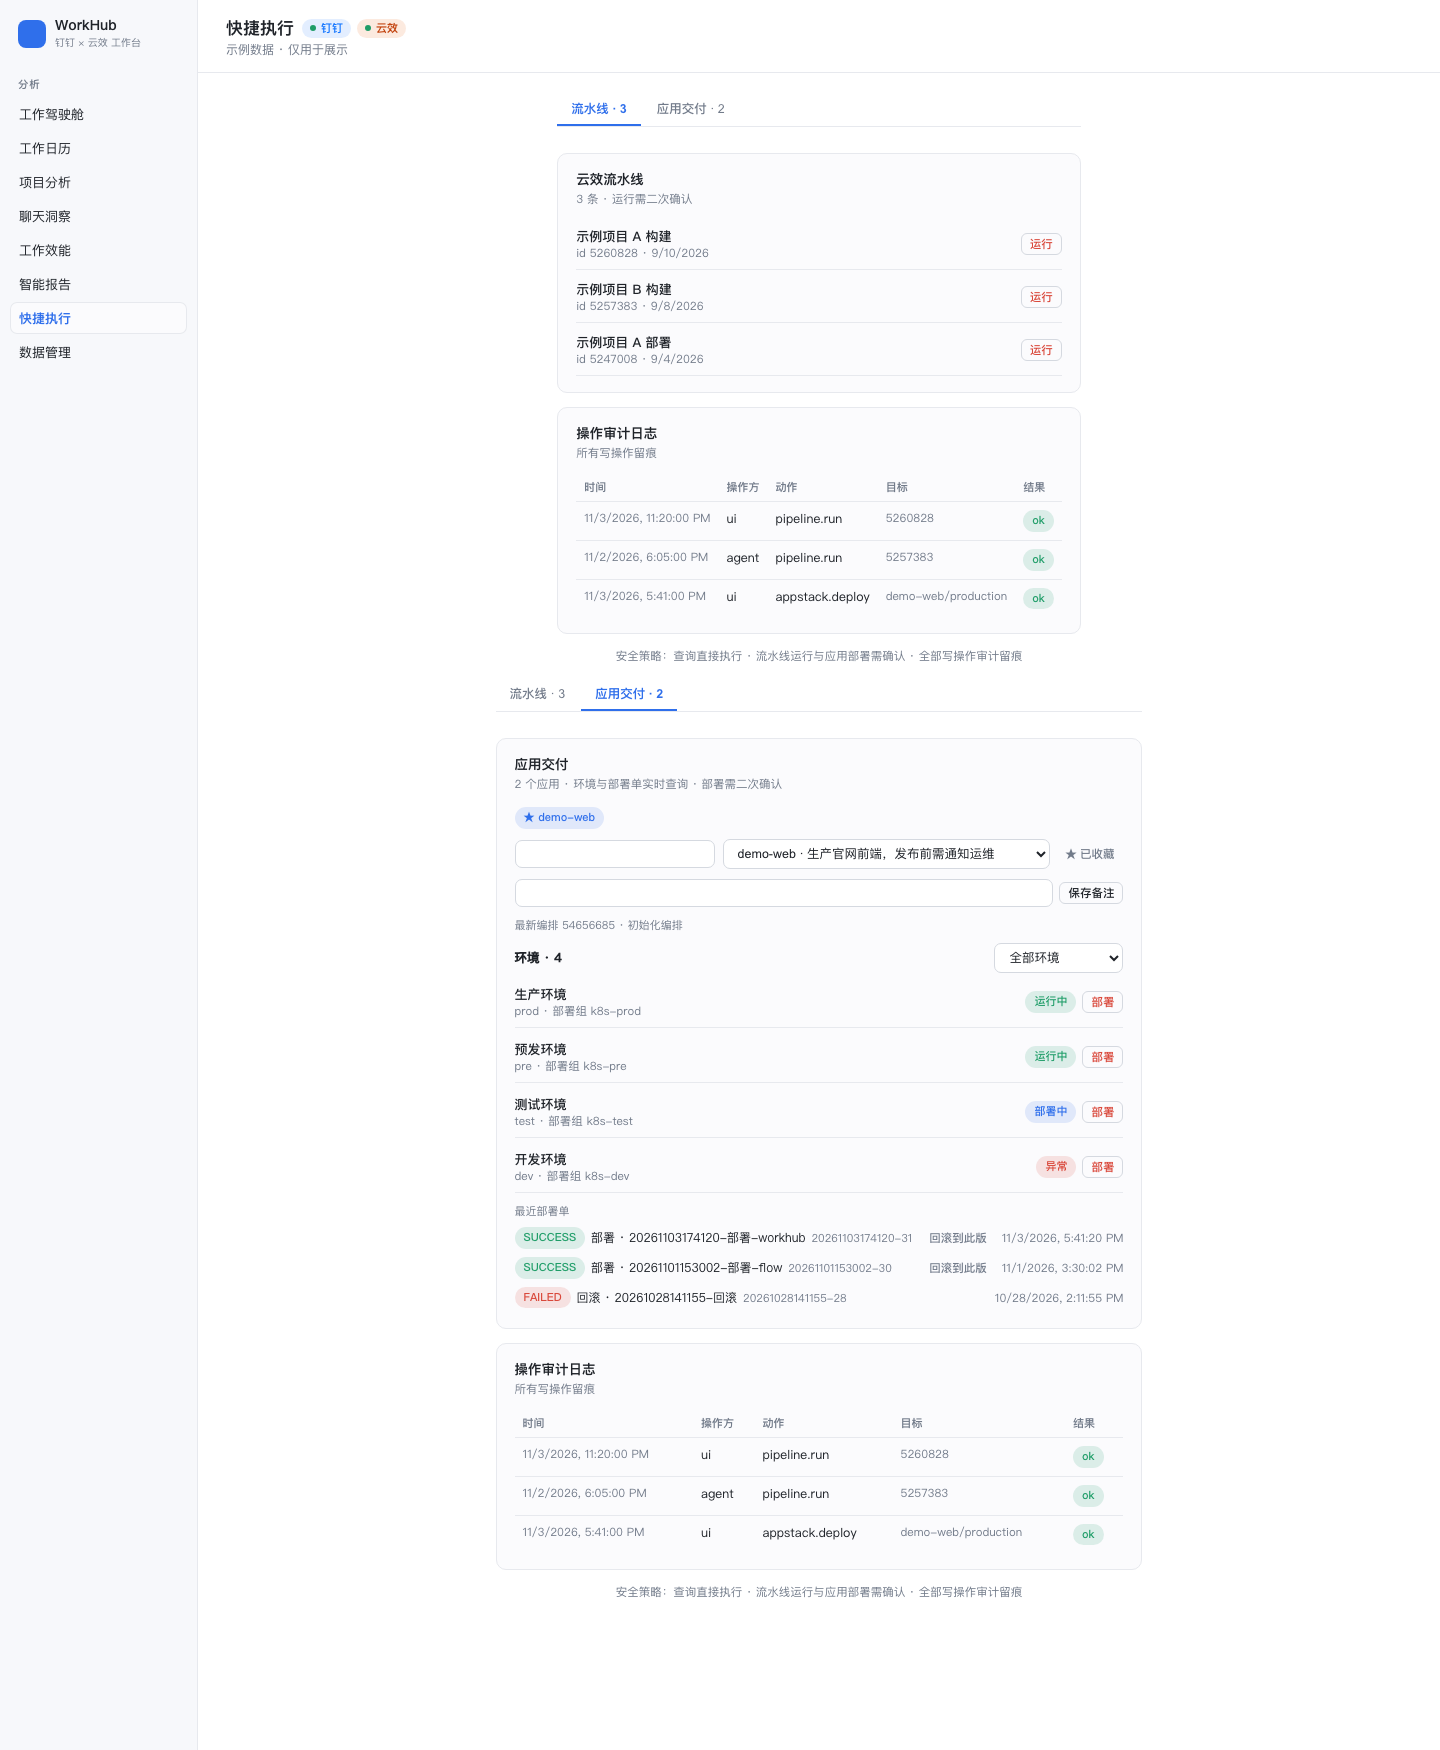
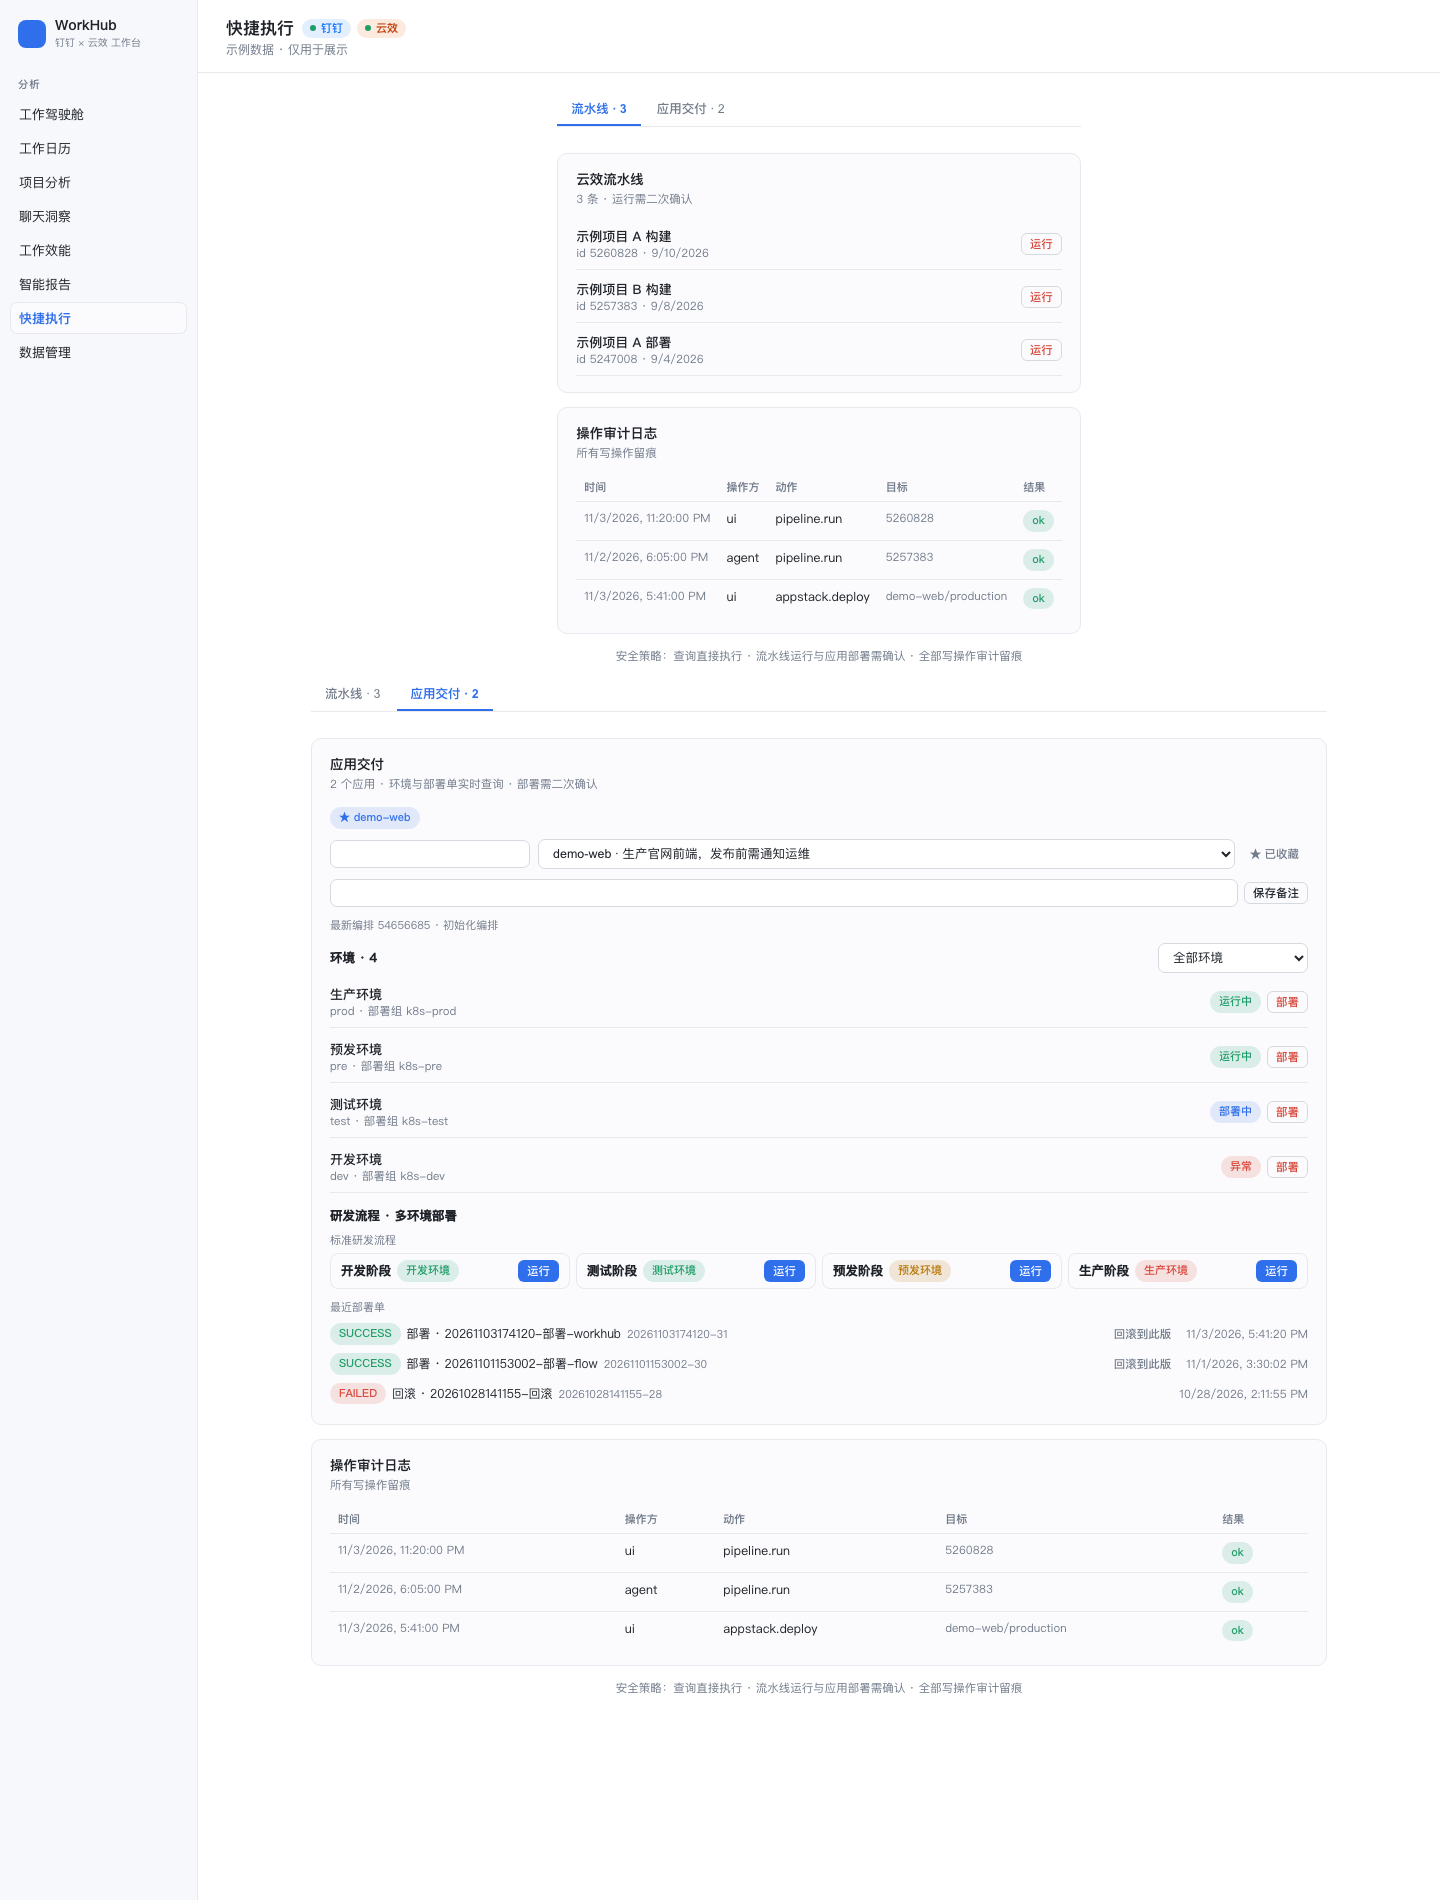
feat: 应用交付接入研发流程（多环境阶段展示 + 运行阶段：分支/变量/备注）

diff --git a/client.js b/client.js
@@ -2888,6 +2888,40 @@ react-is/cjs/react-is.production.js:
     /* 快捷执行页内存缓存：切页不丢状态，回页秒显再后台刷新 */
     const actionsMem = { data: null, appsData: null, selApp: '', detail: {} }
 
+    /* 研发流程阶段行：展开运行表单（分支 / 运行变量 / 备注） */
+    function FlowStageRow({ app, wf, st, busy, onRun }) {
+      const [open, setOpen] = useState(false)
+      const [branch, setBranch] = useState(st.branch ?? 'master')
+      const [vars, setVars] = useState(() => Object.entries(st.params ?? {}).map(([k, v]) => ({ k, v })))
+      const [comment, setComment] = useState('')
+      const running = busy === `flow:${st.sn}`
+      return h('div', { style: { border: '1px solid var(--dsw-alias-border-l1)', borderRadius: 8, padding: '6px 10px', flex: '1 1 240px', minWidth: 240 } },
+        h('div', { className: 'wh-toolbar', style: { justifyContent: 'space-between' } },
+          h('div', { style: { display: 'flex', gap: 6, alignItems: 'center', flexWrap: 'wrap' } },
+            h('span', { style: { fontWeight: 550, fontSize: 12.5 } }, st.name),
+            st.envType ? h(Chip, { tone: st.envType.includes('生产') ? 'bad' : st.envType.includes('预发') ? 'warn' : 'ok' }, st.envType) : null),
+          h(Btn, { size: 'sm', variant: open ? 'ghost' : 'primary', disabled: running, onClick: () => setOpen(!open) },
+            running ? '提交中…' : open ? '收起' : '运行')),
+        open
+          ? h('div', { style: { display: 'flex', flexDirection: 'column', gap: 5, marginTop: 6 } },
+              h(WhInput, { value: branch, onChange: (e) => setBranch(e.target.value), placeholder: st.sourceLabel ? `分支（代码源 ${st.sourceLabel}）` : '分支' }),
+              vars.map((row, i) =>
+                h('div', { key: row.k, className: 'wh-toolbar', style: { gap: 5 } },
+                  h('span', { className: 'wh-muted', style: { fontSize: 11, width: 80, flex: 'none', overflow: 'hidden', textOverflow: 'ellipsis' } }, row.k),
+                  h(WhInput, {
+                    style: { flex: 1 }, value: row.v,
+                    onChange: (e) => setVars((p0) => (p0 ?? []).map((x, j) => (j === i ? { ...x, v: e.target.value } : x))),
+                  }))),
+              h(WhInput, { value: comment, onChange: (e) => setComment(e.target.value), placeholder: '运行备注（可选）' }),
+              h('div', { className: 'wh-toolbar', style: { gap: 6 } },
+                h(Btn, {
+                  size: 'sm', variant: 'primary', disabled: running,
+                  onClick: () => onRun(wf, st, { branch, comment, params: Object.fromEntries(vars.map((r) => [r.k, r.v])) }),
+                }, '确认运行'),
+                h(Btn, { size: 'sm', onClick: () => setOpen(false) }, '取消')))
+          : null)
+    }
+
     function ActionsPage({ initialTab = 'flow' }) {
       const [data, setData] = useState(actionsMem.data)
       const [msg, setMsg] = useState(null)
@@ -2982,6 +3016,19 @@ react-is/cjs/react-is.production.js:
           void api(`/actions/appstack/detail?app=${encodeURIComponent(selApp)}`).then((r) => { if (!r.error) actionsMem.detail[selApp] = r; setDetail(r) })
           load()
         } catch (e) { setMsg(`回滚失败: ${e.message}`) } finally { setBusy('') }
+      }
+
+      const runFlowStage = async (wf, st, { branch, comment, params }) => {
+        if (!selApp) return
+        setBusy(`flow:${st.sn}`); setMsg(null)
+        try {
+          await api('/actions/appstack/flow/run', {
+            method: 'POST',
+            body: JSON.stringify({ app: selApp, workflowSn: wf.sn, stageSn: st.sn, branch, sourceLabel: st.sourceLabel, comment, params, userConfirmed: true }),
+          })
+          setMsg(`研发流程「${wf.name} · ${st.name}」已触发${branch ? `（分支 ${branch}）` : ''}，可在云效流水线查看进度`)
+          void api(`/actions/appstack/detail?app=${encodeURIComponent(selApp)}`).then((r) => { if (!r.error) actionsMem.detail[selApp] = r; setDetail(r) })
+        } catch (e) { setMsg(`运行失败: ${e.message}`) } finally { setBusy('') }
       }
 
       const deploy = async (envName) => {
@@ -3122,6 +3169,16 @@ react-is/cjs/react-is.production.js:
                                 title: (detail.envs ?? []).length ? '该筛选下无环境' : '该应用暂无环境',
                                 hint: (detail.envs ?? []).length ? '切换「全部环境」查看' : '在云效 Appstack 中为应用创建环境',
                               }),
+                          (detail.releaseFlows ?? []).length
+                            ? h('div', { style: { marginTop: 10, display: 'flex', flexDirection: 'column', gap: 8 } },
+                                h('div', { style: { fontWeight: 550, fontSize: 12.5 } }, '研发流程 · 多环境部署'),
+                                (detail.releaseFlows ?? []).map((wf) =>
+                                  h('div', { key: wf.sn, style: { display: 'flex', flexDirection: 'column', gap: 5 } },
+                                    h('div', { className: 'wh-muted', style: { fontSize: 11 } }, wf.name),
+                                    h('div', { style: { display: 'flex', gap: 6, flexWrap: 'wrap' } },
+                                      wf.stages.map((st) => h(FlowStageRow, { key: st.sn, app: detail.app, wf, st, busy, onRun: runFlowStage })))))
+                                )
+                            : null,
                           (detail.orders ?? []).length
                             ? h('div', { style: { marginTop: 6 } },
                                 h('div', { className: 'wh-muted', style: { fontSize: 11, marginBottom: 4 } }, '最近部署单'),

diff --git a/lib/api.js b/lib/api.js
@@ -654,11 +654,44 @@ export function createWorkHubRouter(options = {}) {
       const { YunxiaoClient } = await import('./yunxiao/client.js')
       const yx = new YunxiaoClient({ db, credentials })
       try {
-        const [envs, orders, orch] = await Promise.all([
+        const [envs, orders, orch, flows] = await Promise.all([
           yx.listAppEnvironments(appName),
           yx.listChangeOrders(appName, { pageSize: 10 }),
           yx.getLatestOrchestration(appName).catch(() => null),
+          yx.listReleaseWorkflows(appName).catch(() => []),
         ])
+        const releaseFlows = (Array.isArray(flows) ? flows : []).map((wf) => ({
+          name: wf.name ?? '',
+          sn: String(wf.sn ?? ''),
+          stages: (wf.releaseStages ?? []).map((st) => {
+            const envLabel = (st.labels ?? []).find((l) => l.name === 'envType')
+            const p = st.pipeline?.pipeline ?? {}
+            const pc = p.pipelineConfigVo ?? {}
+            let params = {}
+            let branch = null
+            let sourceLabel = null
+            try {
+              const settings = JSON.parse(pc.settings ?? '{}')
+              params = Object.fromEntries((settings.globalParams ?? [])
+                .filter((g) => g.runningConfig !== false)
+                .map((g) => [String(g.key ?? ''), String(g.value ?? '')]))
+            } catch { /* ignore */ }
+            try {
+              const sources = JSON.parse(pc.sources ?? '[]')
+              const s0 = Array.isArray(sources) ? sources[0] : null
+              sourceLabel = s0?.label ?? null
+              branch = s0?.data?.branch ?? null
+            } catch { /* ignore */ }
+            return {
+              name: st.name ?? '',
+              sn: String(st.sn ?? ''),
+              envType: envLabel?.displayValue ?? envLabel?.value ?? '',
+              pipelineId: pc.pipelineId ?? null,
+              pipelineName: p.name ?? '',
+              branch, sourceLabel, params,
+            }
+          }),
+        }))
         const result = {
           app: appName,
           envs: envs.map((e) => ({ name: e.name, displayName: e.descriptiveName ?? e.name, state: e.state ?? '', deployGroup: e.deployGroupName ?? '' })),
@@ -675,6 +708,7 @@ export function createWorkHubRouter(options = {}) {
           })),
           orchestration: orch,
         }
+        result.releaseFlows = releaseFlows
         if (appstackMem.detail.size > 30) appstackMem.detail.delete(appstackMem.detail.keys().next().value)
         appstackMem.detail.set(appName, { at: now, data: result })
         return result
@@ -1416,6 +1450,40 @@ export function createWorkHubRouter(options = {}) {
         db.logAction({ operator: 'ui', action: 'appstack.rollback', target: `${appName}/${envName}`, status: 'error', result: { error: String(e?.message || e) } })
         throw e
       }
+    },
+    /* 运行研发流程阶段（多环境部署：可指定分支、运行变量与备注；UI 点击即确认） */
+    '/actions/appstack/flow/run': async (params, body) => {
+      const appName = String(body?.app ?? '')
+      if (!/^[\w.-]+$/.test(appName)) throw httpError(400, 'invalid app name')
+      const workflowSn = String(body?.workflowSn ?? '').trim()
+      const stageSn = String(body?.stageSn ?? '').trim()
+      if (!/^[a-f0-9]{8,64}$/i.test(workflowSn) || !/^[a-f0-9]{8,64}$/i.test(stageSn)) throw httpError(400, 'invalid flow/stage sn')
+      if (body?.userConfirmed !== true) throw httpError(400, '需要用户确认（userConfirmed）')
+      const runParams = {}
+      const branch = String(body?.branch ?? '').trim()
+      const sourceLabel = String(body?.sourceLabel ?? '').trim()
+      if (branch) {
+        if (branch.length > 120 || /[\s]/.test(branch)) throw httpError(400, 'invalid branch')
+        if (sourceLabel) runParams[sourceLabel] = branch
+      }
+      const comment = String(body?.comment ?? '').trim().slice(0, 300)
+      if (comment) runParams.FLOW_INST_RUNNING_COMMENT = comment
+      const vars = body?.params
+      if (vars && typeof vars === 'object' && !Array.isArray(vars)) {
+        for (const [k, v] of Object.entries(vars)) {
+          const key = String(k).trim().slice(0, 60)
+          if (key && key !== 'FLOW_INST_RUNNING_COMMENT') runParams[key] = String(v ?? '').slice(0, 120)
+        }
+      }
+      const { YunxiaoClient } = await import('./yunxiao/client.js')
+      const yx = new YunxiaoClient({ db, credentials })
+      const result = await yx.executeReleaseStage(appName, workflowSn, stageSn, { params: runParams })
+      db.logAction({
+        operator: 'ui', action: 'appstack.flowRun', target: `${appName}/${stageSn}${branch ? `@${branch}` : ''}`, status: 'ok',
+        result: { workflowSn, stageSn, params: runParams, upstream: result ?? null },
+      })
+      appstackMem.detail.delete(appName)
+      return { ok: true, result: result ?? null }
     },
     /* 应用交付本地偏好写入：favorites 全量替换（≤30 个），notes 按 key 合并（空值删除）。 */
     '/actions/appstack/prefs': async (params, body) => {

diff --git a/lib/yunxiao/client.js b/lib/yunxiao/client.js
@@ -205,6 +205,21 @@ export class YunxiaoClient {
     return page?.data ?? []
   }
 
+  /** 应用研发流程列表（多环境部署阶段：envType 标签 + 每阶段绑定的 Flow 流水线）。 */
+  async listReleaseWorkflows(appName) {
+    await this.ensureReady()
+    return this.request(this.orgPath('appstack', `/apps/${encodeURIComponent(appName)}/releaseWorkflows`), {})
+  }
+
+  /** 执行研发阶段流水线（运行研发流程阶段，params 支持指定分支与运行变量）。 */
+  async executeReleaseStage(appName, workflowSn, stageSn, { params } = {}) {
+    await this.ensureReady()
+    return this.request(this.orgPath('appstack', `/apps/${encodeURIComponent(appName)}/releaseWorkflows/${encodeURIComponent(workflowSn)}/releaseStages/${encodeURIComponent(stageSn)}:execute`), {
+      method: 'POST',
+      body: { params: params ?? {} },
+    })
+  }
+
   /** Recent change orders（部署单）of one app；页码分页，pageSize ≤ 30。 */
   async listChangeOrders(appName, { current = 1, pageSize = 10 } = {}) {
     await this.ensureReady()
